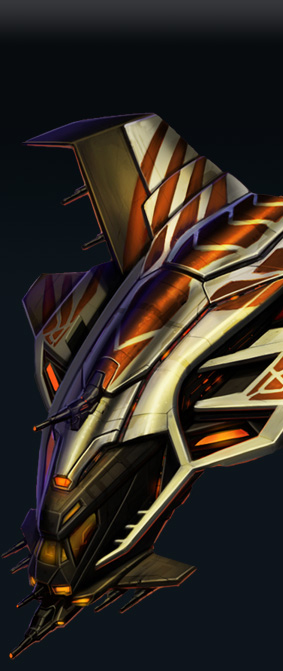
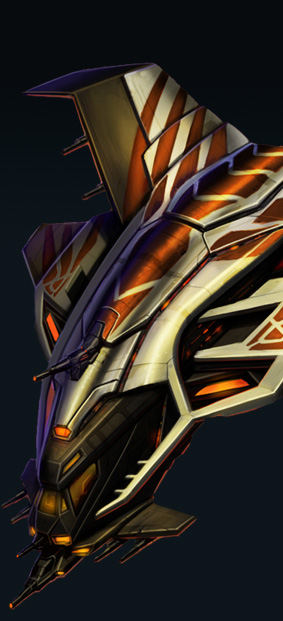
updated assets
git-svn-id: http://higgr.com/svn/jgblue/trunk@83 bd57cdee-f201-48ba-b5f5-b488ddbd62b2

diff --git a/sandbox/base.htm b/sandbox/base.htm
@@ -8,8 +8,9 @@
 
 <body>
 
-<div id="bg-art-left"></div>
+<div id="bg-art-left">
 <div id="container">
+
     <div id="banner-left">
     	<a href="./" title="JGblue - A Jumpgate Evolution Database">
         <img class="logo" src="http://static.jgblue.com/img/jgblue_logo.png" width="196" height="45"/>
@@ -47,6 +48,7 @@
         </div>
     </div>
 </div> 
+</div>
 
 <script type="text/javascript">
 var gaJsHost = (("https:" == document.location.protocol) ? "https://ssl." : "http://www.");

diff --git a/sandbox/style.css b/sandbox/style.css
@@ -11,11 +11,8 @@ body {
 
 #bg-art-left {
 	background: url(http://static.jgblue.com/img/bg1.jpg) no-repeat top left;
-	position: absolute;
-	left: 0;
+	position: relative;
 	top: 0;
-	width: 283px;
-	height: 671px;
 }
 
 p {
